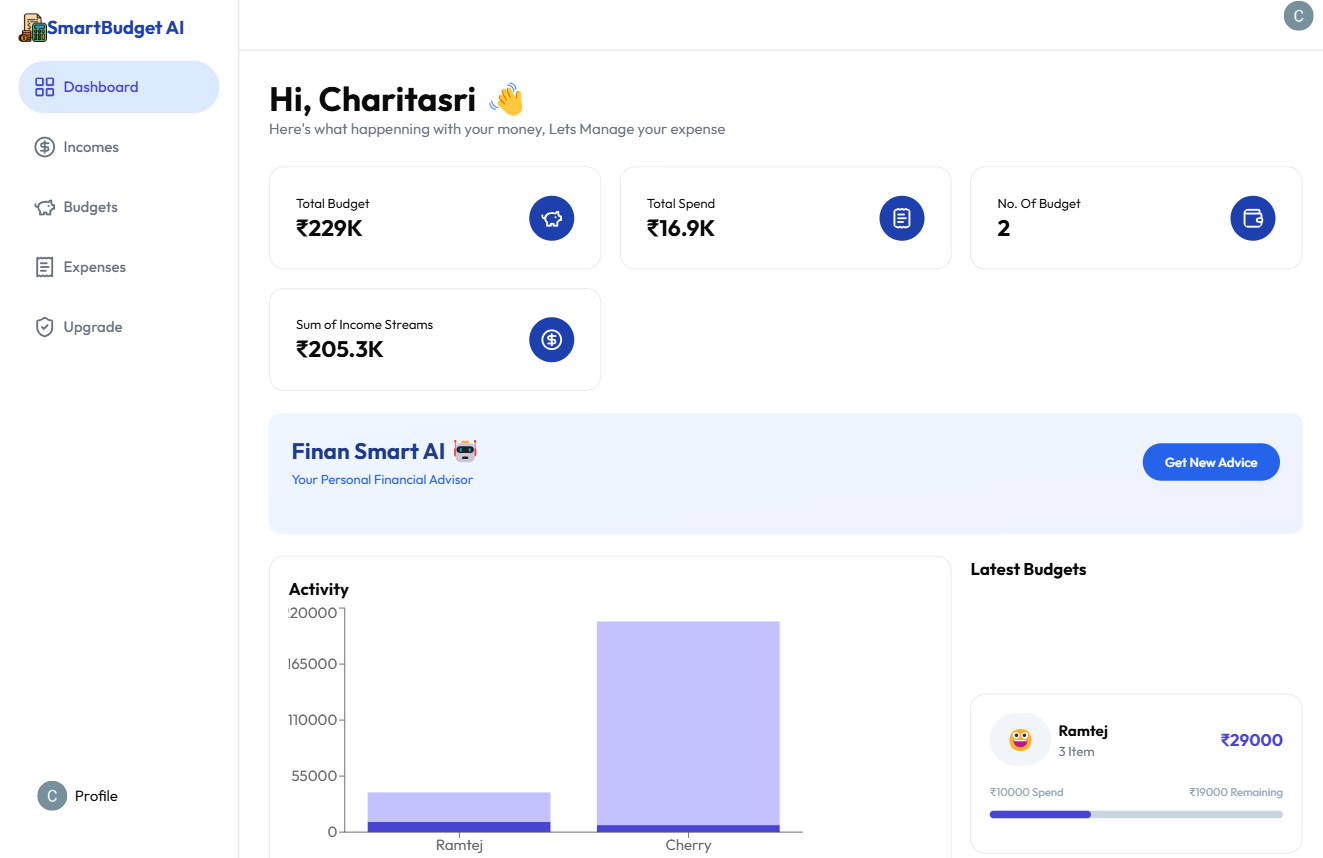
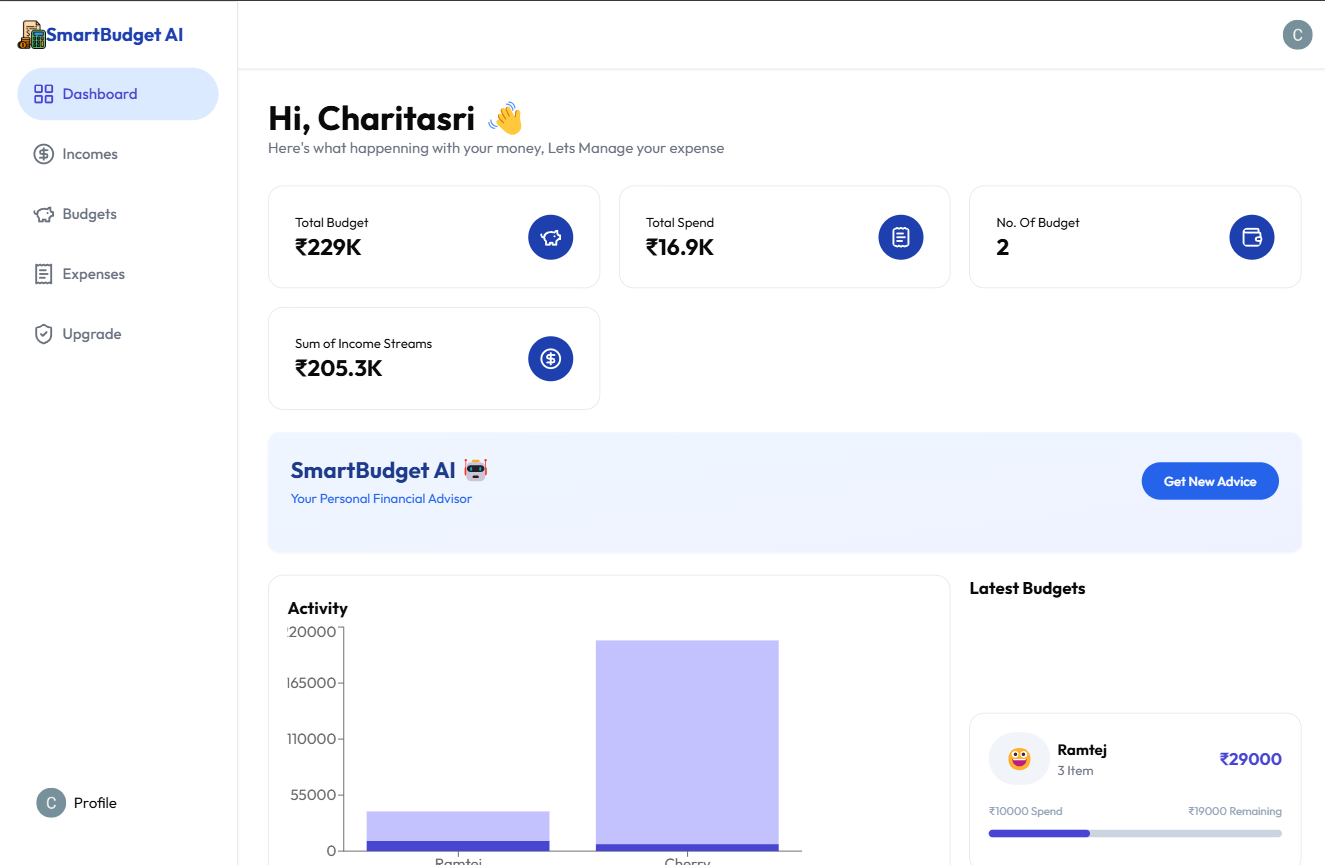
Rename FinancialAdvice component to SmartBudget AI and update associated branding

diff --git a/app/(routes)/dashboard/_components/FinancialAdvice.jsx b/app/(routes)/dashboard/_components/FinancialAdvice.jsx
@@ -195,7 +195,7 @@ function FinancialAdvice({ budgetList, expensesList, incomeList }) {
     <div className="bg-gradient-to-br from-blue-50 to-indigo-50 p-6 rounded-xl shadow-sm mt-6">
       <div className="flex justify-between items-center mb-6">
         <div>
-          <h2 className="text-2xl font-bold text-blue-900">Finan Smart AI 🤖</h2>
+          <h2 className="text-2xl font-bold text-blue-900">SmartBudget AI 🤖</h2>
           <p className="text-blue-600 text-sm mt-1">Your Personal Financial Advisor</p>
         </div>
         <Button
